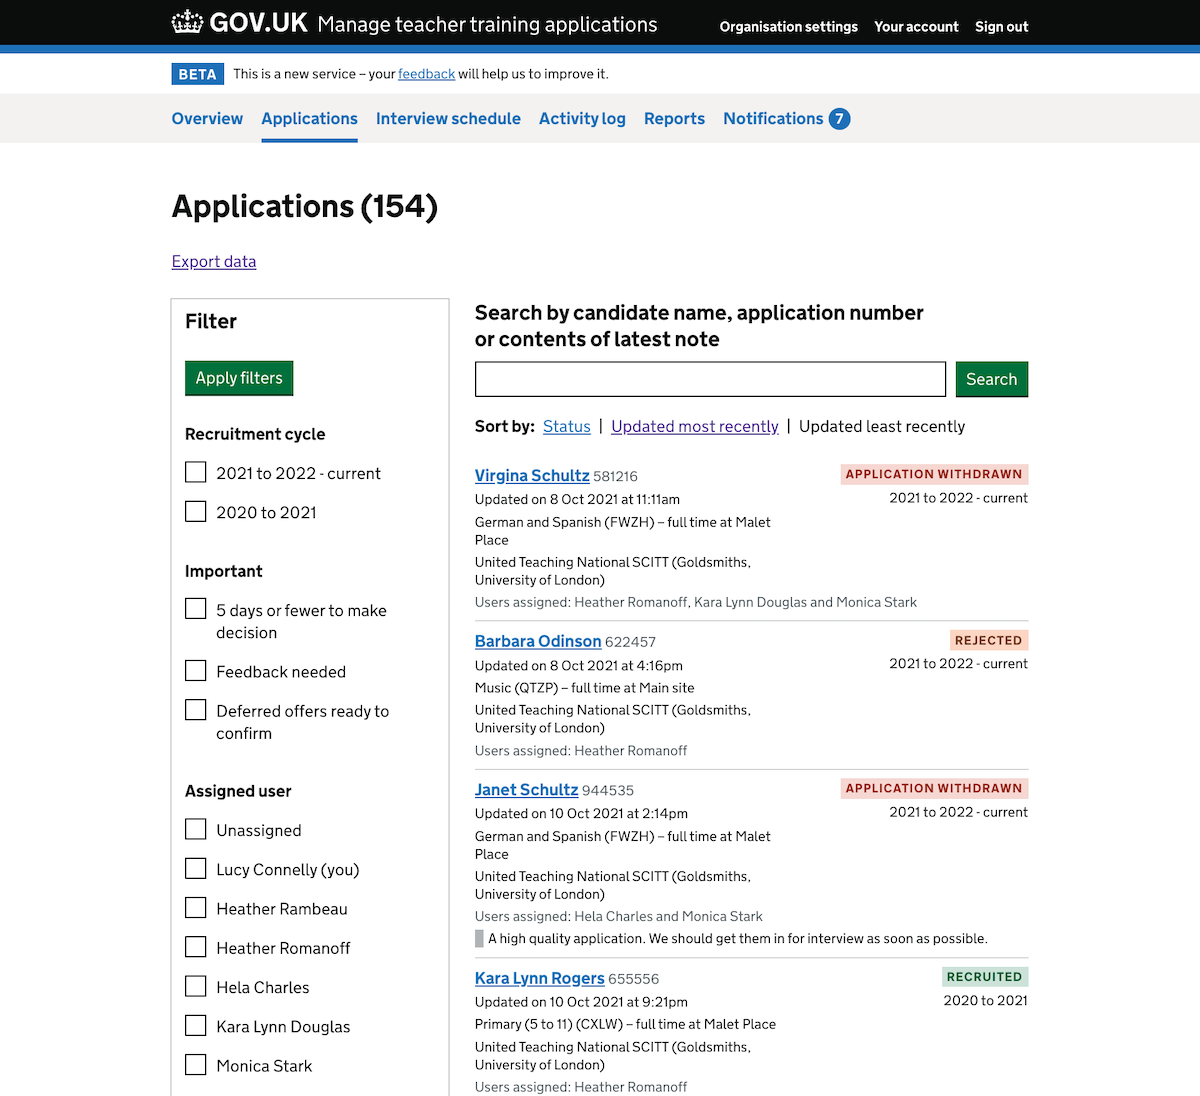
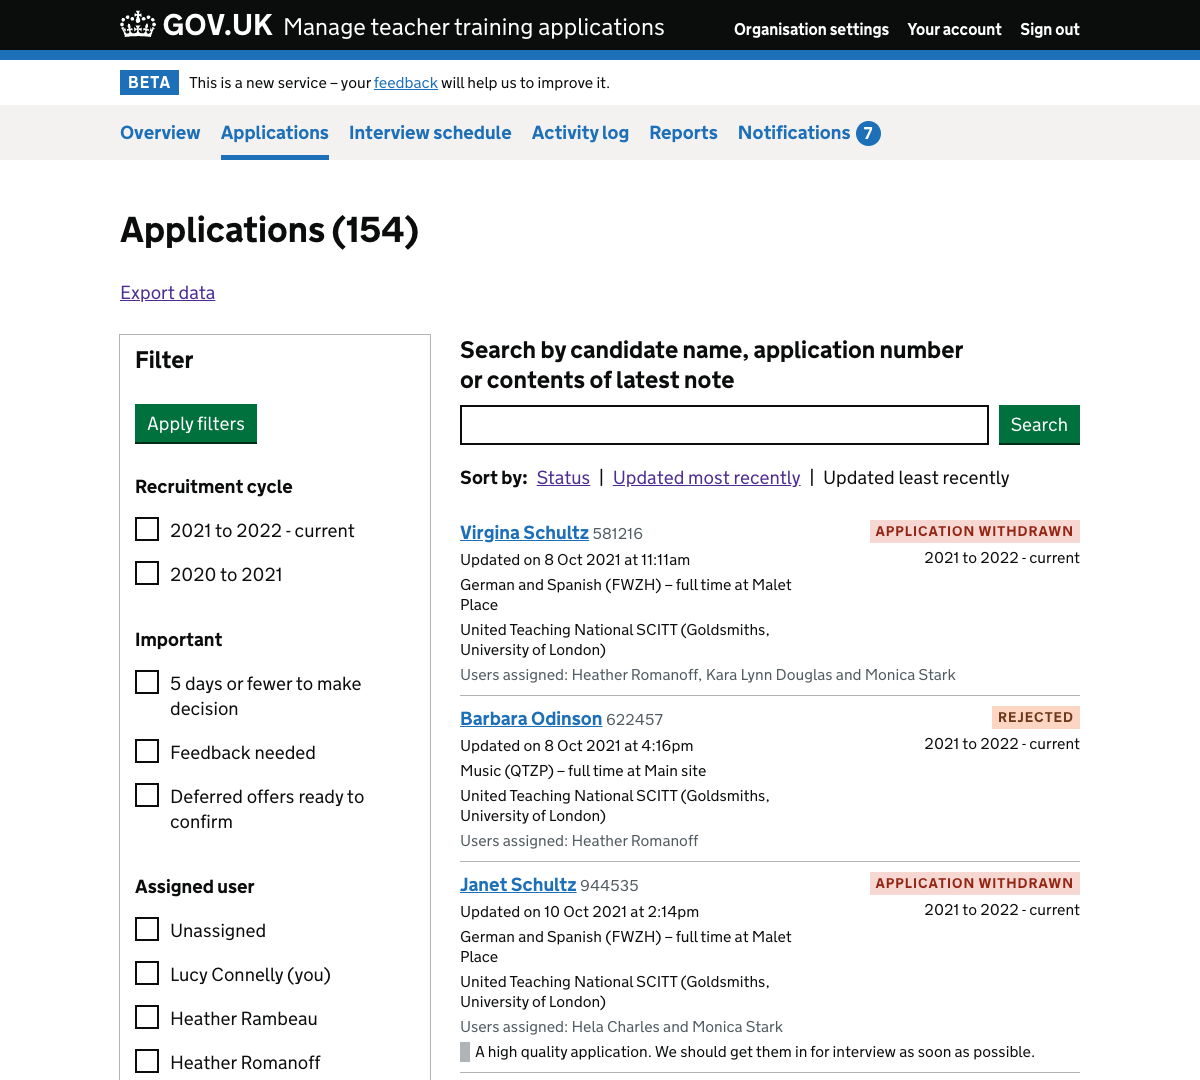
Fixed screenshots and made minor text changes

diff --git a/app/posts/manage-teacher-training-applications/2022-03-21-sorting-the-application-list-in-different-ways.md b/app/posts/manage-teacher-training-applications/2022-03-21-sorting-the-application-list-in-different-ways.md
@@ -14,7 +14,7 @@ tags:
   - MN021
 ---
 
-At the moment the [application list is sorted by priority](/manage-teacher-training-applications/help-users-know-what-needs-doing-and-whats-changed/). We gather applications under headings such as:
+At the moment [the application list is sorted by priority](/manage-teacher-training-applications/help-users-know-what-needs-doing-and-whats-changed/). We gather applications under headings such as:
 
 - Confirm deferred offers
 - Give feedback: you did not make a decision in time
@@ -27,7 +27,7 @@ This allows us to highlight types of applications which we think should be prior
 This priority order is problematic because:
 
 - users often want to process applications in other ways such as by most or least recently updated
-- the grouping makes it harder to process applications in other ways - for example, it isn't easy to view all received applications at a particular location because received applications appear in two different priority groups
+- the grouping makes it harder to process applications in other ways - for example, it isn't easy to view all received applications at a particular location because received applications appear in 2 different priority groups
 
 ## User need
 
@@ -36,13 +36,15 @@ This priority order is problematic because:
 
 ## What we changed
 
-We removed the priority headings and changed the default sort order. We also added two more options to sort the list.
+We removed the priority headings, changed the default sort order and added two more options to sort the list.
 
-### Removing the priority headings and changed the default sort order to status
+We also now show the last updated date for each application.
+
+### Removing the priority headings and changing the default sort order
 
 To give users more control over the application list, we removed the priority headings.
 
-The default order is now by status, so that users can look at all received applications together. We've made this the default order as it’ll be useful even without applying filters.
+The default order is now by status so that, for example, users can look at all received applications together. We've made this the default order as it’ll be useful even without applying filters.
 
 ### Adding the ability to sort by most and least recently updated
 
@@ -86,13 +88,13 @@ When a user sorts by most recently changed:
 
 - the status option will be a link
 - the updated least recently option will be a link
-- the updated most recently link will be regular text
+- the updated most recently link will be standard text
 
 When a user sorts by least recently changed:
 
 - the status option will be a link
 - the updated most recently option will be a link
-- the updated last recently link will be regular text
+- the updated last recently link will be standard text
 
 An update includes:
 
